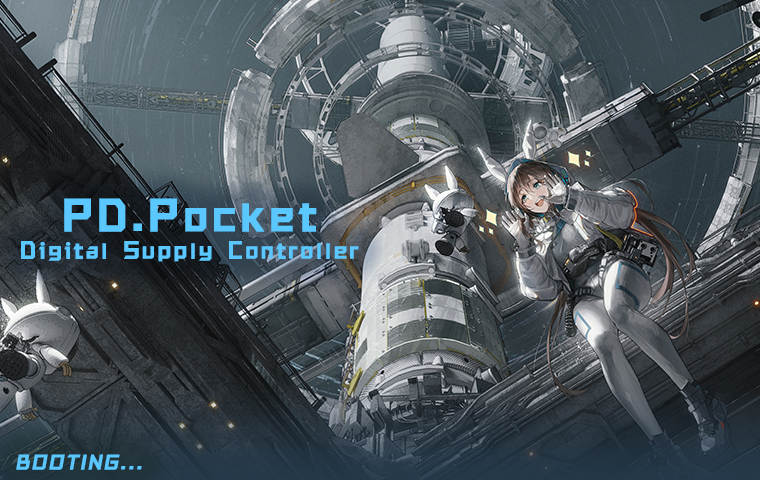
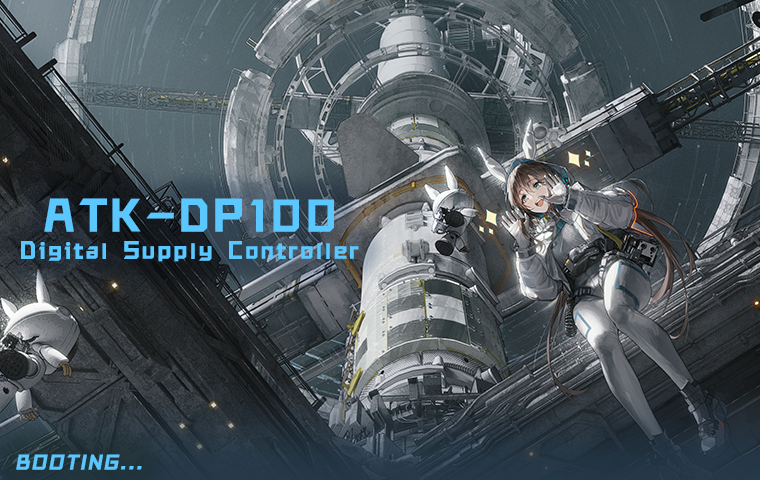
update

Changed region(s): [[0.0605, 0.4062, 0.4842, 0.5]]

diff --git a/gui_source/gui.py b/gui_source/gui.py
@@ -37,10 +37,10 @@ logger.info(f"ARG_PATH: {ARG_PATH}")
 logger.info(f"ABS_PATH: {ABS_PATH}")
 
 try:
+    sys.path.append(os.path.dirname(ABS_PATH))
     from dp100 import DP100
 except ImportError:
     logger.info("Redirecting to repo")
-    sys.path.append(os.path.dirname(ABS_PATH))
     sys.path.append(os.path.dirname(os.path.dirname(ABS_PATH)))
     from dp100 import DP100
 

diff --git a/readme.md b/readme.md
@@ -1,46 +1,48 @@
-# PD Pocket 数控电源上位机
+# 正点原子 DP100 数控电源上位机
 
-## 开发
+基于PyQt5的正点原子DP100数控电源上位机
+> [!NOTE]
+> 项目现在同步到我其他上位机的最新代码, 引入大量新特性并大幅提高了绘制性能
 
-首先安装一个Python
+## **[English Version](./readme_EN.md)**
 
-进入gui_source目录:
+![1746780655831](image/readme/1746780655831.png)
 
-```powershell
-cd gui_source
-```
+## 功能
 
-安装uv:
+> [!IMPORTANT]
+> **当前仍处于BETA状态,如果遇上任何问题请参考README最后的[日志获取方法],记录log后发issue请求修复**
 
-```powershell
-python -m pip install -U uv
-```
+### Python3 API
 
-新建一个虚拟环境并激活:
+- 支持输出/电压/电流设置
+- 读取设备状态
+- 实时读取输出的ADC测量值
 
-```powershell
-uv venv --python 3.11
-.venv\Scripts\activate
-```
+### PyQt5 GUI
 
-安装依赖:
+- 基本参数设定、预设组管理、设置修改
+- 高达100Hz（可调）的数据采集、绘图、分析、保存
+  - 自定义波形缓冲区长度
+  - **绘图缓冲区现在可以自由选择预览范围,同时记录百万个数据点**
+- PID恒功率控制
+- 参数扫描（电压/电流）
+  - *绘制扫描响应曲线 (用于研究负载的特性)*
+- 函数发生器（正弦/方波/三角波/锯齿波/随机波）
+- 操作序列（以单次或循环执行动作序列）
+- *电池模拟器 (支持自定义电池电压曲线/容量/内阻/串联)*
+- *数据悬浮窗*
+- 两种主题的Material Design风格
+- *i18n支持 (中文/英文)*
+- 开箱即用的便携可执行文件
 
-```powershell
-uv pip install -r requirements.txt
-```
+### GUI环境变量
 
-运行:
+- MDP_ENABLE_LOG: 启用调试日志输出 (或用--debug参数启动)
+- MDP_FORCE_ENGLISH: 强制使用英文UI (或用--english参数启动)
+- MDP_SIM_MODE: 启用模拟模式, 允许在不连接设备的情况下测试UI功能 (或用--sim参数启动)
 
-```powershell
-python mdp_gui.py
-```
+### 日志获取方法
 
-## 打包
-
-```powershell
-./build-x64.ps1
-```
-
-## 其他信息
-
-参考 [MDP-P906-Controller](https://github.com/ElluIFX/MDP-P906-Controller)
+使用`--debug`参数启动程序, 程序将在所在文件夹中创建dp100.log日志文件, 进行bug复现, 随后将日志文件附在issue中
+![1746781629583](image/readme/1746781629583.png)

diff --git a/readme_EN.md b/readme_EN.md
@@ -1,0 +1,48 @@
+# Aliantek DP100 Power Supply PC Controller
+
+PyQt5-based PC Controller for Aliantek DP100 Digital Power Supply
+> [!NOTE]
+> The project is now synchronized with the latest code from my other controllers, introducing many new features and significantly improving rendering performance
+
+![1746780655831](image/readme/1746780655831.png)
+
+**(GUI in English available if your system language is non-Chinese)**
+
+## Features
+
+> [!IMPORTANT]
+> **Currently still in BETA status. If you encounter any issues, please refer to the [Log Collection Method] at the end of the README, record the log, and submit an issue requesting a fix**
+
+### Python3 API
+
+- Support for output/voltage/current settings
+- Device status reading
+- Real-time reading of output ADC measurements
+
+### PyQt5 GUI
+
+- Basic parameter settings, preset group management, configuration modification
+- Data acquisition, plotting, analysis, and saving at up to 100Hz (adjustable)
+  - Custom waveform buffer length
+  - **Plot buffer now allows free selection of preview range while recording millions of data points**
+- PID constant power control
+- Parameter scanning (voltage/current)
+  - *Drawing scan response curves (for studying load characteristics)*
+- Function generator (sine/square/triangle/sawtooth/random waves)
+- Operation sequences (execute action sequences once or in loops)
+- *Battery simulator (supports custom battery voltage curves/capacity/internal resistance/series connection)*
+- *Floating data window*
+- Material Design style with two themes
+- *i18n support (Chinese/English)*
+- Ready-to-use portable executable
+
+### GUI Environment Variables
+
+- MDP_ENABLE_LOG: Enable debug log output (or start with the --debug parameter)
+- MDP_FORCE_ENGLISH: Force English UI (or start with the --english parameter)
+- MDP_SIM_MODE: Enable simulation mode, allowing testing of UI functions without connecting a device (or start with the --sim parameter)
+
+### Log Collection Method
+
+Start the program with the `--debug` parameter. The program will create a dp100.log log file in its folder. Reproduce the bug, then attach the log file to your issue
+![1746781629583](image/readme/1746781629583.png)
